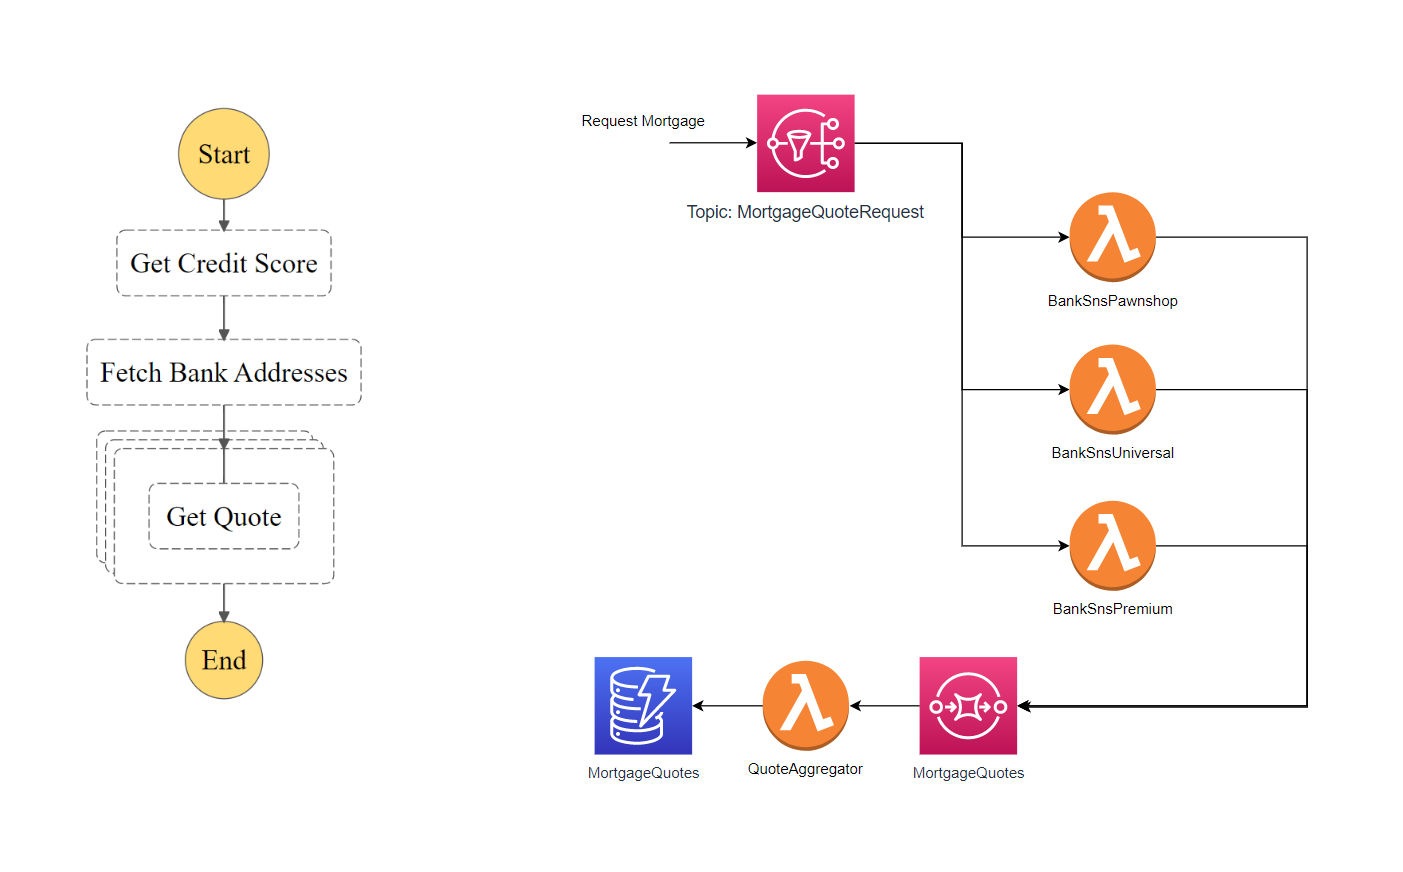
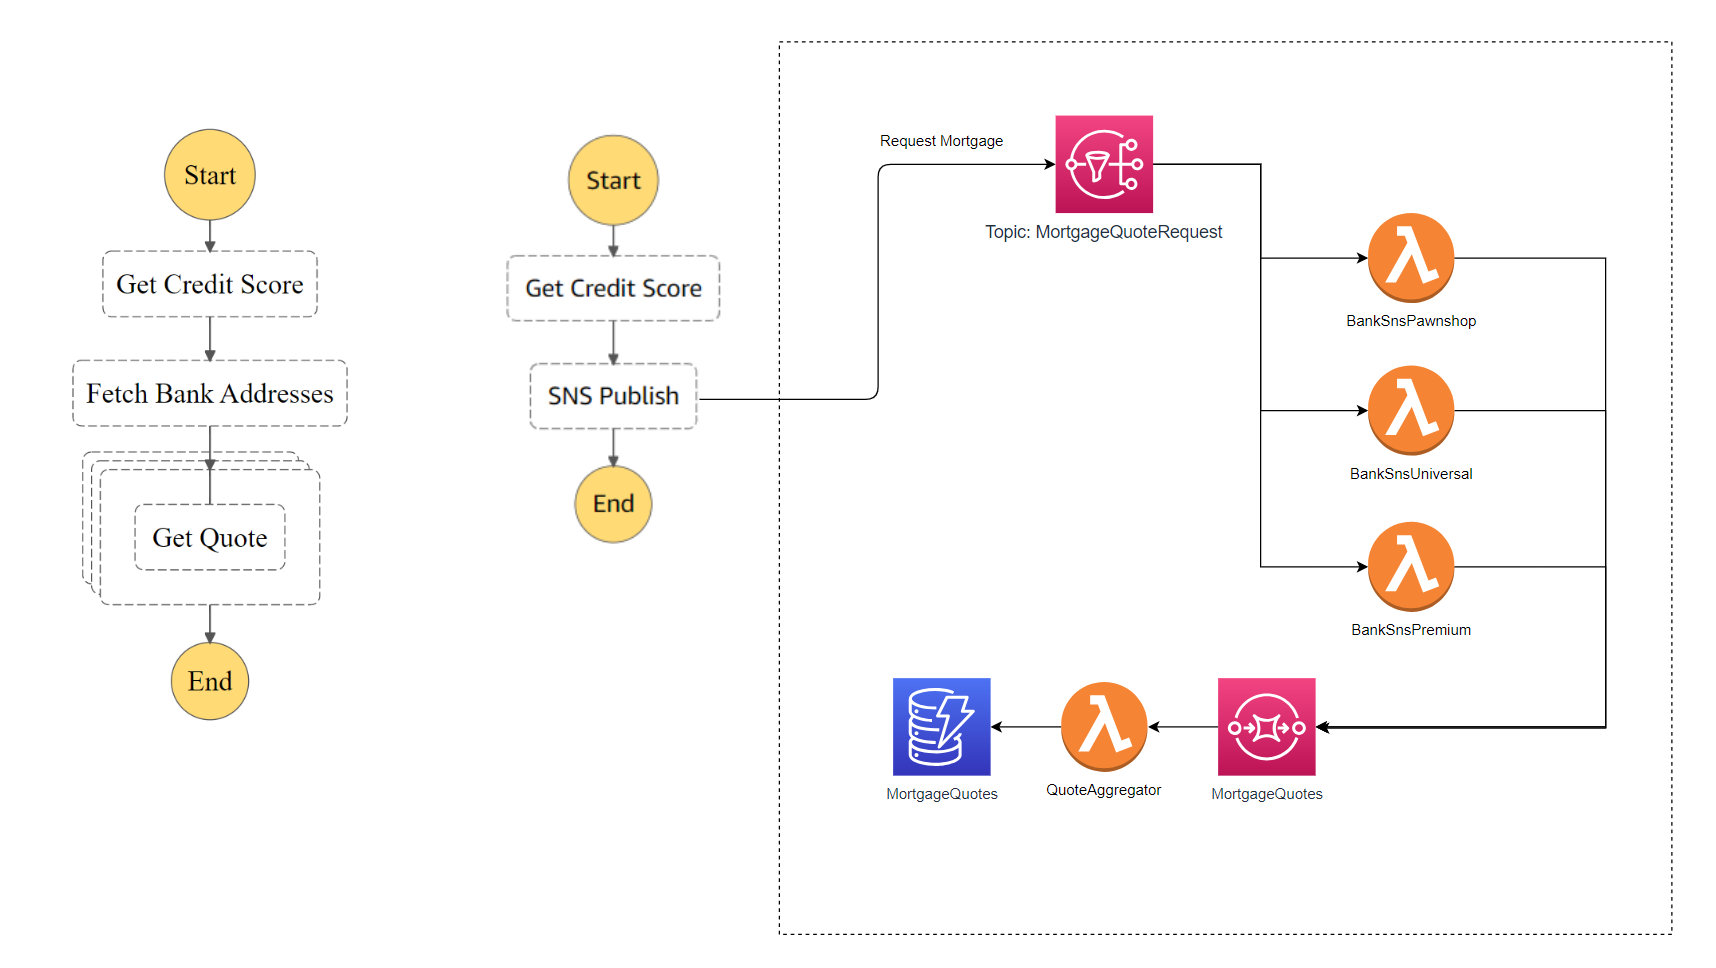
Add StepFunctions for Choreography to make 'before/after' more consistent

diff --git a/implementation/orchestration-to-choreography/lib/choreography.ts b/implementation/orchestration-to-choreography/lib/choreography.ts
@@ -7,7 +7,9 @@ import {
   aws_sns as sns,
   aws_sqs as sqs,
   aws_lambda_destinations as destinations,
-  aws_lambda_event_sources as sources
+  aws_lambda_event_sources as sources,
+  aws_stepfunctions as sfn,
+  aws_stepfunctions_tasks as tasks
 } from 'aws-cdk-lib';
 import { Construct } from 'constructs';
 import { NagSuppressions } from 'cdk-nag'
@@ -45,6 +47,7 @@ export class ChoreographyStack extends Stack {
     choreographyRole.addToPolicy(new iam.PolicyStatement({
       actions: ['logs:CreateLogGroup', 'logs:CreateLogStream', 'logs:PutLogEvents'],
       resources: [
+        'arn:aws:logs:' + this.region + ':' + this.account + ':log-group:/aws/lambda/getCreditScoreSns:*',
         'arn:aws:logs:' + this.region + ':' + this.account + ':log-group:/aws/lambda/BankSnsPawnshop:*',
         'arn:aws:logs:' + this.region + ':' + this.account + ':log-group:/aws/lambda/BankSnsPremium:*',
         'arn:aws:logs:' + this.region + ':' + this.account + ':log-group:/aws/lambda/BankSnsUniversal:*',
@@ -184,5 +187,101 @@ export class ChoreographyStack extends Stack {
 
     DynamoDBTable.grantWriteData(quoteAggregatorFn);
 
+    // Role for Step Function
+    const stepRole = new iam.Role(this, 'stepRole', {
+      path: "/service-role/",
+      assumedBy: new iam.ServicePrincipal('states.amazonaws.com'),
+    });
+
+    const policy = new iam.PolicyStatement({
+      actions: [
+        "sns:Publish",
+        "lambda:InvokeFunction"
+      ],
+      resources: [
+        "arn:aws:sns:*:*:*",
+        "arn:aws:lambda:*:*:function:*"
+      ],
+      effect: iam.Effect.ALLOW
+    });
+
+    const customPolicy = new iam.Policy(this, 'customPolicy', {
+      statements: [policy]
+    });
+
+    customPolicy.attachToRole(stepRole);
+
+    // Create the Lambda functions
+    const getCreditScoreFn = new lambda.Function(this, 'getCreditScoreSns', {
+      functionName: `GetCreditScoreSns`,
+      runtime: lambda.Runtime.NODEJS_18_X,
+      code: lambda.Code.fromAsset('lambda/choreography'),
+      handler: 'index.handler',
+      role: choreographyRole,
+    });
+
+    // Create the Step Functions state machine to publish message to SNS
+    const StepFunctionsStateMachine = new sfn.CfnStateMachine(this, 'StepFunctionsStateMachine', {
+      stateMachineName: "LoanBroker-PubSub",
+      definitionString:`
+      {
+        "Comment": "A description of my state machine",
+        "StartAt": "Get Credit Score",
+        "States": {
+          "Get Credit Score": {
+            "Type": "Task",
+            "Resource": "arn:aws:states:::lambda:invoke",
+            "Parameters": {
+              "FunctionName": "${getCreditScoreFn.functionArn}",
+              "Payload": {
+                "SSN.$": "$.SSN",
+                "RequestId.$": "$$.Execution.Id"
+              }
+            },
+            "Retry": [
+              {
+                "ErrorEquals": [
+                  "Lambda.ServiceException",
+                  "Lambda.AWSLambdaException",
+                  "Lambda.SdkClientException",
+                  "Lambda.TooManyRequestsException"
+                ],
+                "IntervalSeconds": 2,
+                "MaxAttempts": 6,
+                "BackoffRate": 2
+              }
+            ],
+            "Next": "SNS Publish",
+            "ResultSelector": {
+              "Score.$": "$.Payload.body.score",
+              "History.$": "$.Payload.body.history"
+            },
+            "ResultPath": "$.Credit"
+          },
+          "SNS Publish": {
+            "Type": "Task",
+            "Resource": "arn:aws:states:::sns:publish",
+            "Parameters": {
+              "Message.$": "$",
+              "TopicArn": "arn:aws:sns:us-west-1:564420990987:MortgageQuoteRequest",
+              "MessageAttributes": {
+                "RequestId": {
+                  "DataType": "String",
+                  "StringValue.$": "$$.Execution.Id"
+                }
+              }
+            },
+            "End": true
+          }
+        }
+      }
+      `,
+      roleArn: stepRole.roleArn,
+      stateMachineType: "STANDARD",
+      loggingConfiguration: {
+        includeExecutionData: false,
+        level: "OFF"
+      }
+    });
   }
 }
